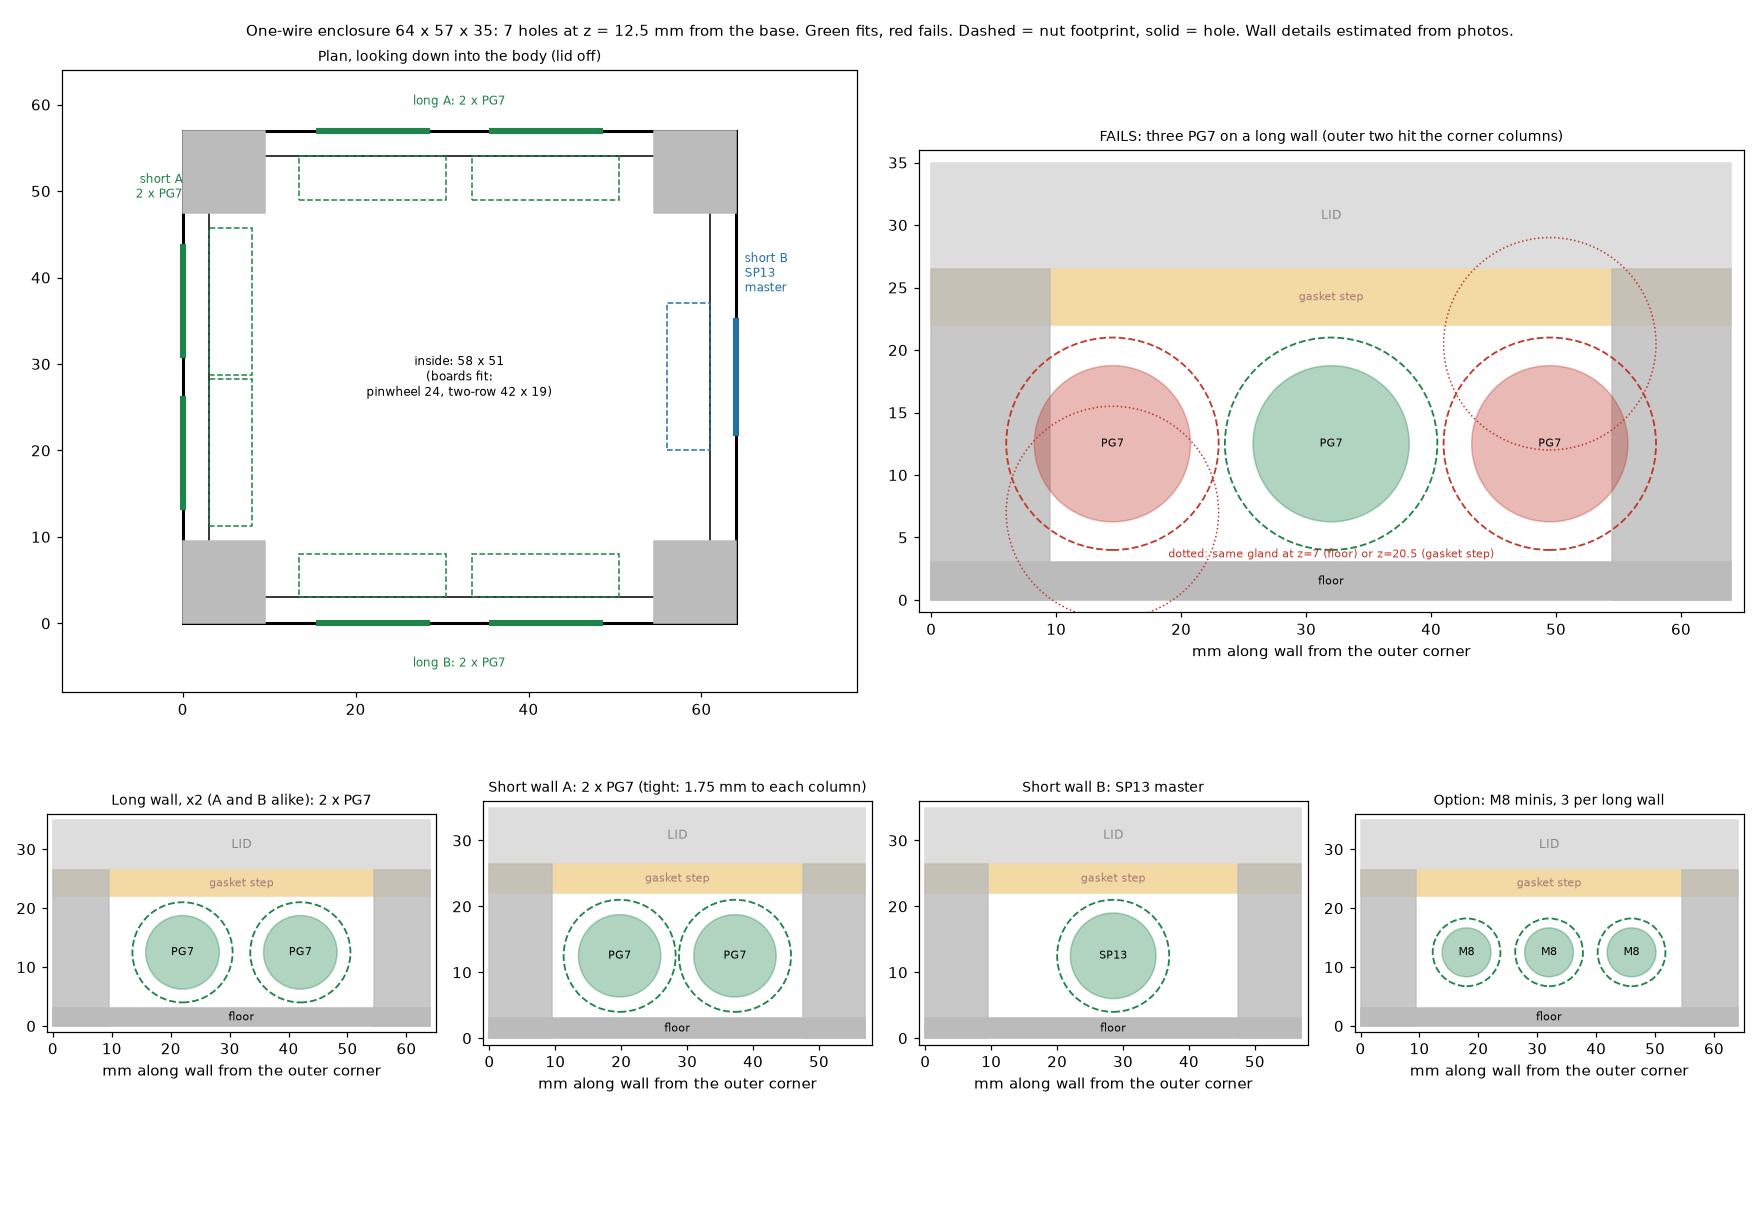
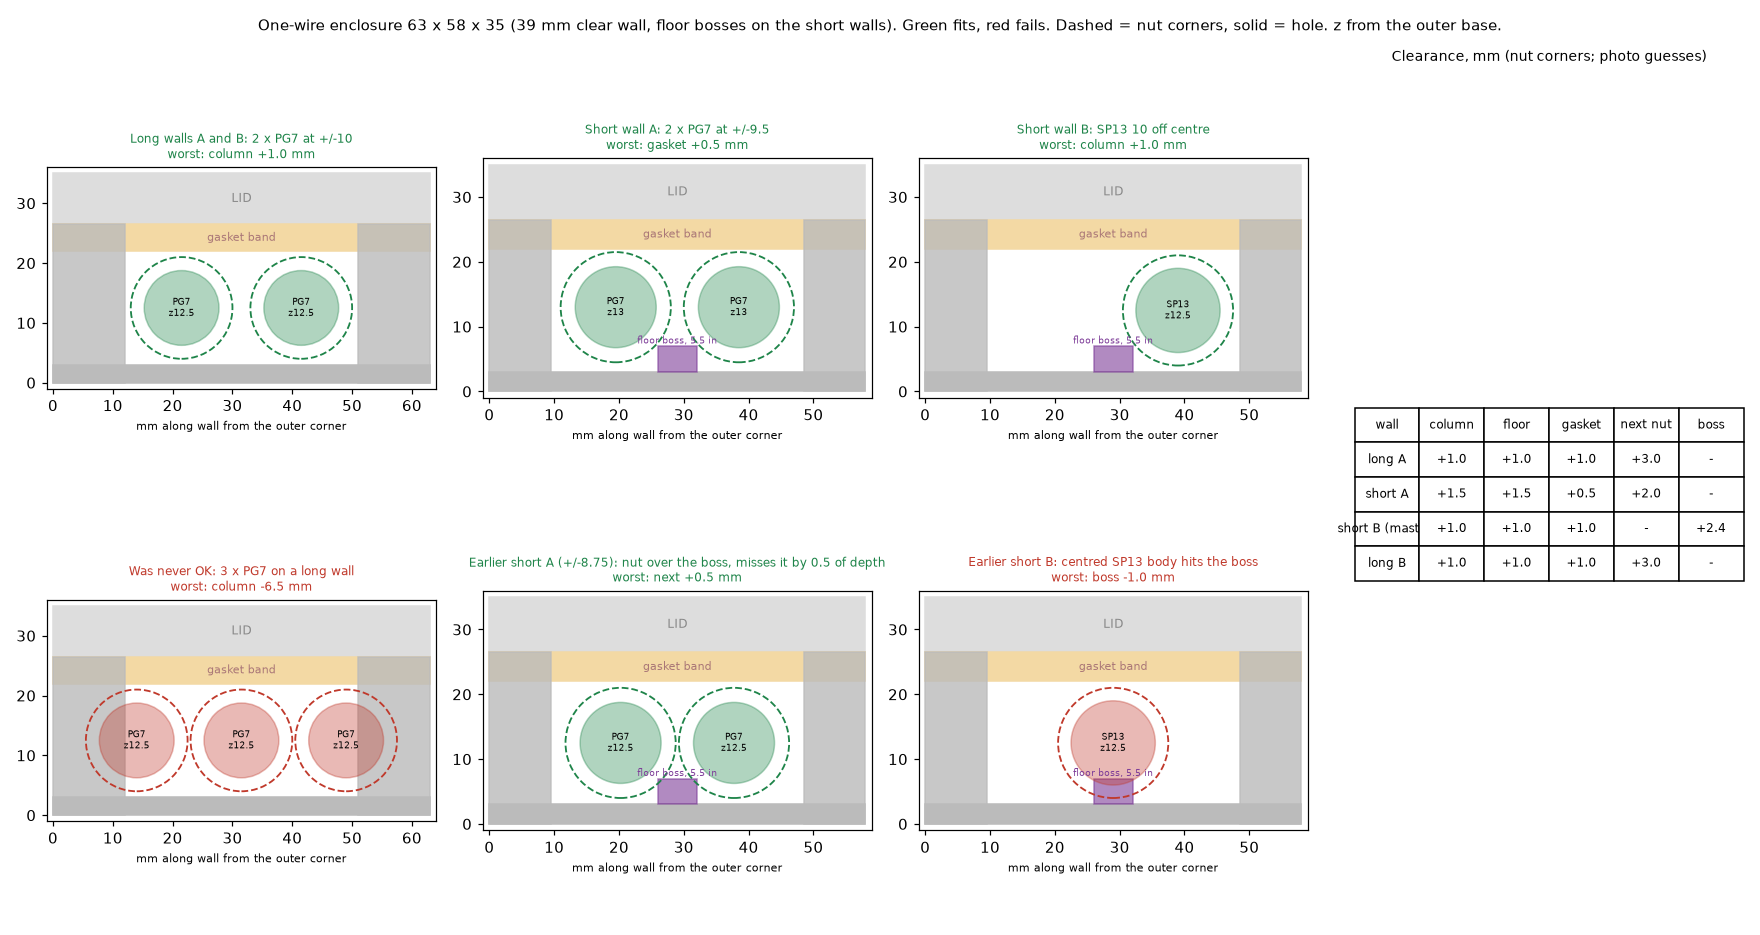
one-wire-enclosure: re-check against the clear-lid listing (39 mm clear wall, floor bosses); short-wall glands move off the bosses

diff --git a/projects/one-wire-enclosure/model.py b/projects/one-wire-enclosure/model.py
@@ -1,9 +1,11 @@
-"""Gland layout for the 64 x 57 x 35 black ABS box: 6 probe glands + 1 master.
+"""Gland layout for the 63 x 58 x 35 ABS box (black or clear lid): 6 probe glands + 1 master.
 
-Outer size is the vendor's. Every other number is read off the vendor photos
-and is a GUESS until the box is in calipers (see README).
+Outer size and the 39 mm clear wall between corner columns are the vendor's.
+Every other number is read off vendor photos and is a GUESS until the box is
+in calipers (see README). Shares its box numbers with projects/small-box-sensors/box.scad.
 """
 from dataclasses import dataclass
+import math
 import matplotlib
 matplotlib.use("Agg")
 import matplotlib.pyplot as plt
@@ -13,128 +15,141 @@ from matplotlib.gridspec import GridSpec
 
 @dataclass
 class Box:
-    L: float = 64.0        # outer, vendor
-    W: float = 57.0        # outer, vendor
-    H: float = 35.0        # outer, vendor
-    lid: float = 8.5       # lid height, photo
-    wall: float = 3.0      # photo
-    floor: float = 3.0     # photo
-    boss: float = 9.5      # corner column, outer corner inward, photo
-    groove: float = 4.5    # gasket step under the seam, photo
+    L: float = 63.0          # outer, vendor
+    W: float = 58.0          # outer, vendor
+    H: float = 35.0          # outer, vendor
+    clear: float = 39.0      # straight wall between corner columns, both walls, vendor
+    lid: float = 8.5         # lid height, photo
+    wall: float = 2.5        # photo (vendor 53 inside across W)
+    floor: float = 3.0       # photo
+    groove: float = 4.5      # gasket band under the seam, photo
+    boss_pitch: float = 41.0 # floor screw bosses, centred on the short walls, photo
+    boss_d: float = 6.0
+    boss_h: float = 4.0      # above the inside floor
 
     @property
-    def z_top(self):       # highest usable z on the body wall
+    def z_top(self):         # highest z (from outer base) a nut may reach on the plain wall
         return self.H - self.lid - self.groove
 
+    def col(self, wall_len):  # corner column width along a wall, from the outer corner
+        return (wall_len - self.clear) / 2
+
     @property
-    def z_mid(self):
-        return (self.floor + self.z_top) / 2
+    def boss_gap(self):      # inside wall face to boss edge
+        return (self.L - 2 * self.wall) / 2 - self.boss_pitch / 2 - self.boss_d / 2
 
 
-# name: (hole dia, nut footprint dia)  -- PG7 15 AF/17 corners; SP13 nut unmeasured; M8 guessed
-PARTS = {"PG7": (12.5, 17.0), "SP13": (13.0, 17.0), "M8": (8.3, 11.5)}
+# name: (hole dia, nut across corners, nut thickness, inside body dia, inside body depth past the wall)
+# PG7: nut 15 AF / 17 AC, ~5 thick, thread ~8 long. SP13: rear body ~13 dia x ~15 deep, nut unmeasured.
+PARTS = {"PG7": (12.5, 17.0, 5.0, 12.5, 5.5), "SP13": (13.0, 17.0, 3.0, 13.0, 15.0)}
 
-# wall -> (length, [(part, x centre from outer corner)])
+
 def layout(b: Box):
+    """wall -> (length, has_boss, [(part, x from the outer corner, z from the outer base)])"""
+    L, W = b.L, b.W
     return {
-        "long A":  (b.L, [("PG7", b.L/2 - 10), ("PG7", b.L/2 + 10)]),
-        "long B":  (b.L, [("PG7", b.L/2 - 10), ("PG7", b.L/2 + 10)]),
-        "short A": (b.W, [("PG7", b.W/2 - 8.75), ("PG7", b.W/2 + 8.75)]),
-        "short B (master)": (b.W, [("SP13", b.W/2)]),
+        "long A": (L, False, [("PG7", L/2 - 10, 12.5), ("PG7", L/2 + 10, 12.5)]),
+        "long B": (L, False, [("PG7", L/2 - 10, 12.5), ("PG7", L/2 + 10, 12.5)]),
+        "short A": (W, True, [("PG7", W/2 - 9.5, 13.0), ("PG7", W/2 + 9.5, 13.0)]),
+        "short B (master)": (W, True, [("SP13", W/2 + 10, 12.5)]),
     }
 
 
-def check(b, wall_len, items, z):
-    """Return list of problems for glands at height z on a wall."""
-    bad = []
-    lo, hi = b.boss, wall_len - b.boss
-    for i, (p, x) in enumerate(items):
-        r = PARTS[p][1] / 2
-        if x - r < lo or x + r > hi: bad.append((i, "corner column"))
-        if z - r < b.floor: bad.append((i, "floor"))
-        if z + r > b.z_top: bad.append((i, "gasket step / lid"))
-        for j in range(i):
-            q, y = items[j]
-            if abs(x - y) < r + PARTS[q][1] / 2: bad.append((i, "next gland"))
-    return bad
+def _circle_rect_gap(cx, cy, r, x0, x1, y0, y1):
+    dx = max(x0 - cx, 0, cx - x1); dy = max(y0 - cy, 0, cy - y1)
+    return math.hypot(dx, dy) - r
 
 
-def elevation(ax, b, L, items, z, title, force_bad=()):
+def margins(b, wall_len, has_boss, items):
+    """Smallest clearance (mm) to each obstacle; negative = collision."""
+    col = b.col(wall_len)
+    m = {"column": 99, "floor": 99, "gasket": 99, "next": 99, "boss": 99}
+    bx0, bx1 = wall_len/2 - b.boss_d/2, wall_len/2 + b.boss_d/2
+    btop = b.floor + b.boss_h
+    for i, (p, x, z) in enumerate(items):
+        _, nut, nut_t, body_d, body_l = PARTS[p]
+        r = nut / 2
+        m["column"] = min(m["column"], x - r - col, wall_len - col - x - r)
+        m["floor"] = min(m["floor"], z - r - b.floor)
+        m["gasket"] = min(m["gasket"], b.z_top - z - r)
+        for q, y, zz in items[:i]:
+            m["next"] = min(m["next"], math.hypot(x - y, z - zz) - r - PARTS[q][1] / 2)
+        if has_boss:
+            # nut and inside body only reach the boss if they stand deeper than the boss gap
+            for rad, depth in ((r, nut_t), (body_d / 2, body_l)):
+                g = _circle_rect_gap(x, z, rad, bx0, bx1, 0, btop)
+                if depth > b.boss_gap:
+                    m["boss"] = min(m["boss"], g)
+    return m
+
+
+def ok(m):
+    return min(m.values()) >= 0
+
+
+def elevation(ax, b, L, has_boss, items, title):
+    col = b.col(L)
     ax.add_patch(Rectangle((0, 0), L, b.floor, color="#bbb"))
     ax.add_patch(Rectangle((0, b.H - b.lid), L, b.lid, color="#ddd"))
     ax.text(L/2, b.H - b.lid/2, "LID", ha="center", va="center", color="#888", fontsize=8)
     ax.add_patch(Rectangle((0, b.z_top), L, b.groove, color="#f3d9a4"))
-    ax.text(L/2, b.z_top + b.groove/2, "gasket step", ha="center", va="center", fontsize=7, color="#a77")
-    ax.text(L/2, b.floor/2, "floor", ha="center", va="center", fontsize=7)
-    for x0 in (0, L - b.boss):
-        ax.add_patch(Rectangle((x0, 0), b.boss, b.H - b.lid, color="#bbb", alpha=.8))
-    bad = {i for i, _ in check(b, L, items, z)} | set(force_bad)
-    for i, (p, x) in enumerate(items):
-        hd, nd = PARTS[p]
-        c = "#c0392b" if i in bad else "#1e8449"
+    ax.text(L/2, b.z_top + b.groove/2, "gasket band", ha="center", va="center", fontsize=7, color="#a77")
+    for x0 in (0, L - col):
+        ax.add_patch(Rectangle((x0, 0), col, b.H - b.lid, color="#bbb", alpha=.8))
+    if has_boss:
+        ax.add_patch(Rectangle((L/2 - b.boss_d/2, b.floor), b.boss_d, b.boss_h, color="#7d3c98", alpha=.6))
+        ax.text(L/2, b.floor + b.boss_h + .4, f"floor boss, {b.boss_gap:.1f} in", ha="center", fontsize=6, color="#7d3c98")
+    m = margins(b, L, has_boss, items)
+    c = "#1e8449" if ok(m) else "#c0392b"
+    for p, x, z in items:
+        hd, nd, *_ = PARTS[p]
         ax.add_patch(Circle((x, z), nd/2, fill=False, ls="--", ec=c, lw=1.2))
         ax.add_patch(Circle((x, z), hd/2, fc=c, alpha=.35, ec=c))
-        ax.text(x, z, p, ha="center", va="center", fontsize=7)
+        ax.text(x, z, f"{p}\nz{z:g}", ha="center", va="center", fontsize=6)
+    worst = min(m, key=m.get)
     ax.set_xlim(-1, L + 1); ax.set_ylim(-1, b.H + 1); ax.set_aspect("equal")
-    ax.set_title(title, fontsize=9)
-    ax.set_xlabel("mm along wall from the outer corner")
-
-
-def plan(ax, b):
-    ax.add_patch(Rectangle((0, 0), b.L, b.W, fill=False, lw=2))
-    ax.add_patch(Rectangle((b.wall, b.wall), b.L - 2*b.wall, b.W - 2*b.wall, fill=False, lw=1))
-    for x0 in (0, b.L - b.boss):
-        for y0 in (0, b.W - b.boss):
-            ax.add_patch(Rectangle((x0, y0), b.boss, b.boss, color="#bbb"))
-    lay = layout(b)
-    g = lambda p, x, y, ax_: None
-    nut_depth = 5.0
-    for x in [b.L/2 - 10, b.L/2 + 10]:
-        for y, s in ((0, 1), (b.W, -1)):
-            ax.add_patch(Rectangle((x - 8.5, y - (0 if s > 0 else nut_depth) + (b.wall if s > 0 else -b.wall) * 0 + (b.wall if s > 0 else -b.wall + 0)),
-                                   17, nut_depth, fill=False, ec="#1e8449", ls="--"))
-            ax.plot([x - 6.25, x + 6.25], [y, y], color="#1e8449", lw=4)
-    for y in [b.W/2 - 8.75, b.W/2 + 8.75]:
-        ax.add_patch(Rectangle((b.wall, y - 8.5), nut_depth, 17, fill=False, ec="#1e8449", ls="--"))
-        ax.plot([0, 0], [y - 6.25, y + 6.25], color="#1e8449", lw=4)
-    ax.add_patch(Rectangle((b.L - b.wall - nut_depth, b.W/2 - 8.5), nut_depth, 17, fill=False, ec="#2471a3", ls="--"))
-    ax.plot([b.L, b.L], [b.W/2 - 6.5, b.W/2 + 6.5], color="#2471a3", lw=4)
-    ax.text(b.L/2, b.W/2, "inside: 58 x 51\n(boards fit:\npinwheel 24, two-row 42 x 19)", ha="center", va="center", fontsize=8)
-    ax.text(0, b.W/2 + 22, "short A\n2 x PG7", ha="right", va="center", fontsize=8, color="#1e8449")
-    ax.text(b.L + 1, b.W/2 + 12, "short B\nSP13\nmaster", ha="left", va="center", fontsize=8, color="#2471a3")
-    ax.text(b.L/2, b.W + 3, "long A: 2 x PG7", ha="center", fontsize=8, color="#1e8449")
-    ax.text(b.L/2, -5, "long B: 2 x PG7", ha="center", fontsize=8, color="#1e8449")
-    ax.set_xlim(-14, b.L + 14); ax.set_ylim(-8, b.W + 7); ax.set_aspect("equal")
-    ax.set_title("Plan, looking down into the body (lid off)", fontsize=9)
+    ax.set_title(f"{title}\nworst: {worst} {m[worst]:+.1f} mm", fontsize=8, color=c)
+    ax.set_xlabel("mm along wall from the outer corner", fontsize=7)
+    return m
 
 
 def main(path):
     b = Box()
     lay = layout(b)
-    z = b.z_mid
-    fig = plt.figure(figsize=(16, 11))
-    gs = GridSpec(2, 4, figure=fig, height_ratios=[1.15, 1])
-    plan(fig.add_subplot(gs[0, 0:2]), b)
-    fail = [("PG7", b.L/2 - 17.5), ("PG7", b.L/2), ("PG7", b.L/2 + 17.5)]
-    ax = fig.add_subplot(gs[0, 2:4])
-    elevation(ax, b, b.L, fail, z, "FAILS: three PG7 on a long wall (outer two hit the corner columns)")
-    # low and high PG7 examples on the same panel
-    for zz, lab in ((7.0, "z=7: nut on the floor"), (20.5, "z=20.5: nut in the gasket step")):
-        pass
-    ax.add_patch(Circle((b.L/2 - 17.5, 7.0), 8.5, fill=False, ec="#c0392b", ls=":"))
-    ax.add_patch(Circle((b.L/2 + 17.5, 20.5), 8.5, fill=False, ec="#c0392b", ls=":"))
-    ax.text(b.L/2, 3.0 + 0.2, "dotted: same gland at z=7 (floor) or z=20.5 (gasket step)", ha="center", fontsize=7, color="#c0392b", va="bottom")
-    elevation(fig.add_subplot(gs[1, 0]), b, b.L, lay["long A"][1], z, "Long wall, x2 (A and B alike): 2 x PG7")
-    elevation(fig.add_subplot(gs[1, 1]), b, b.W, lay["short A"][1], z, "Short wall A: 2 x PG7 (tight: 1.75 mm to each column)")
-    elevation(fig.add_subplot(gs[1, 2]), b, b.W, lay["short B (master)"][1], z, "Short wall B: SP13 master")
-    m8 = [("M8", b.L/2 - 14), ("M8", b.L/2), ("M8", b.L/2 + 14)]
-    elevation(fig.add_subplot(gs[1, 3]), b, b.L, m8, z, "Option: M8 minis, 3 per long wall")
-    fig.suptitle(f"One-wire enclosure 64 x 57 x 35: 7 holes at z = {z:.1f} mm from the base. "
-                 "Green fits, red fails. Dashed = nut footprint, solid = hole. Wall details estimated from photos.", fontsize=10)
+    fig = plt.figure(figsize=(16, 8.5))
+    gs = GridSpec(2, 4, figure=fig)
+    report = {}
+    for k, (name, (L, boss, items)) in enumerate(lay.items()):
+        if name == "long B":
+            continue
+        t = {"long A": "Long walls A and B: 2 x PG7 at +/-10",
+             "short A": "Short wall A: 2 x PG7 at +/-9.5",
+             "short B (master)": "Short wall B: SP13 10 off centre"}[name]
+        report[name] = elevation(fig.add_subplot(gs[0, len(report)]), b, L, boss, items, t)
+    report["long B"] = margins(b, *lay["long B"])
+    # the earlier layout, re-checked against this box
+    W = b.W
+    old = [
+        (b.L, False, [("PG7", b.L/2 - 17.5, 12.5), ("PG7", b.L/2, 12.5), ("PG7", b.L/2 + 17.5, 12.5)], "Was never OK: 3 x PG7 on a long wall"),
+        (W, True, [("PG7", W/2 - 8.75, 12.5), ("PG7", W/2 + 8.75, 12.5)], "Earlier short A (+/-8.75): nut over the boss, misses it by 0.5 of depth"),
+        (W, True, [("SP13", W/2, 12.5)], "Earlier short B: centred SP13 body hits the boss"),
+    ]
+    for i, (L, boss, items, t) in enumerate(old):
+        elevation(fig.add_subplot(gs[1, i]), b, L, boss, items, t)
+    ax = fig.add_subplot(gs[0:2, 3])
+    ax.axis("off")
+    rows = [[n] + [f"{m[k]:+.1f}" if m[k] < 90 else "-" for k in ("column", "floor", "gasket", "next", "boss")] for n, m in report.items()]
+    tb = ax.table(cellText=rows, colLabels=["wall", "column", "floor", "gasket", "next nut", "boss"], loc="center", cellLoc="center")
+    tb.auto_set_font_size(False); tb.set_fontsize(8); tb.scale(1, 1.6)
+    ax.set_title("Clearance, mm (nut corners; photo guesses)", fontsize=9)
+    fig.suptitle("One-wire enclosure 63 x 58 x 35 (39 mm clear wall, floor bosses on the short walls). "
+                 "Green fits, red fails. Dashed = nut corners, solid = hole. z from the outer base.", fontsize=10)
     fig.tight_layout()
     fig.savefig(path, dpi=110)
-    return b, lay, z
+    return b, lay, report
 
 
 if __name__ == "__main__":
-    main("projects/one-wire-enclosure/out/holes.png")
+    _, _, rep = main("projects/one-wire-enclosure/out/holes.png")
+    for n, m in rep.items():
+        print(n, {k: round(v, 2) for k, v in m.items() if v < 90})

diff --git a/projects/one-wire-enclosure/README.md b/projects/one-wire-enclosure/README.md
@@ -1,17 +1,26 @@
 # One-wire enclosure: gland layout
 
-Purpose: seven cable entries (6 probe glands, 1 master) in the 64 x 57 x 35 black ABS box with brass-insert corner screws.
+Purpose: seven cable entries (6 probe glands, 1 master) in the 63 x 58 x 35 ABS box (black or clear lid, same body) with brass-insert corner screws.
 
 ![layout](out/holes.png)
 
-The vendor photos the estimates come from: the inside (corner columns, gasket step, lid) and the dimensioned outside.
+The vendor photos the estimates come from: the inside (corner columns, gasket band, lid), the dimensioned outside, and the clear-lid listing with inside dimensions.
 
-![inside](out/ref-inside.jpg) ![dimensions](out/ref-dimensions.jpg)
+![inside](out/ref-inside.jpg) ![dimensions](out/ref-dimensions.jpg) ![clear lid](out/ref-clear-lid.webp)
 
-Measured: outer 64 x 57 x 35 (vendor listing). Everything else is read off the vendor photos, not calipered:
-lid ~8.5 tall, wall ~3, floor ~3, corner columns ~9.5 from the outer corner, gasket step ~4.5 under the seam.
-Gland sizes: PG7 hole 12.5, nut 15 across flats / 17 across corners (varies by maker); SP13 hole 13, nut size not found; M8 hole 8.3, nut guessed 11.5.
+Vendor: outer 63 x 58 x 35 (an older listing said 64 x 57), 53 inside across the 58 side, 39 mm of straight wall between the corner columns on both walls.
+Read off photos, not calipered: lid ~8.5 tall, wall ~2.5, floor ~3, gasket band ~4.5 under the seam, two floor screw bosses (~6 dia, ~4 tall) on the centre line about 5.5 in from each short wall.
+Box numbers are shared with `projects/small-box-sensors/box.scad`.
+Gland sizes: PG7 hole 12.5, nut 15 across flats / 17 across corners, ~5 thick; SP13 hole 13, rear body ~13 x ~15 deep, nut unmeasured.
 
-Result: all seven fit at z = 12.5 above the base (long walls 2 + 2 PG7, short wall A 2 PG7, short wall B the SP13). Short wall A has 1.75 mm to each corner column.
-Three PG7 on one long wall cannot (needs 51 of 45 mm). Height window for a PG7 nut is 3 to 22: only ~1 mm of slack each way.
-Calipers wanted before drilling: wall straight length between columns, floor-to-gasket-step height, nut across corners.
+Layout (z from the outer base):
+
+| Wall | Holes | Tightest clearance |
+|---|---|---|
+| Long A, long B | 2 x PG7 at centre +/-10, z 12.5 | 1.0 to the corner columns |
+| Short A | 2 x PG7 at centre +/-9.5, z 13 | 0.5 to the gasket band; clears the boss in elevation |
+| Short B | SP13 10 off centre, z 12.5 | 1.0 to the column; body 2.4 clear of the boss |
+
+Fails: three PG7 on a long wall; a centred SP13 (its rear body lands on the floor boss).
+The earlier short-wall spacing (+/-8.75, z 12.5) puts the nut over the boss and misses it only because the nut is thinner than the boss gap.
+Calipers wanted before drilling: boss edge to inside wall face, boss height, nut across corners and thickness, SP13 rear depth.
